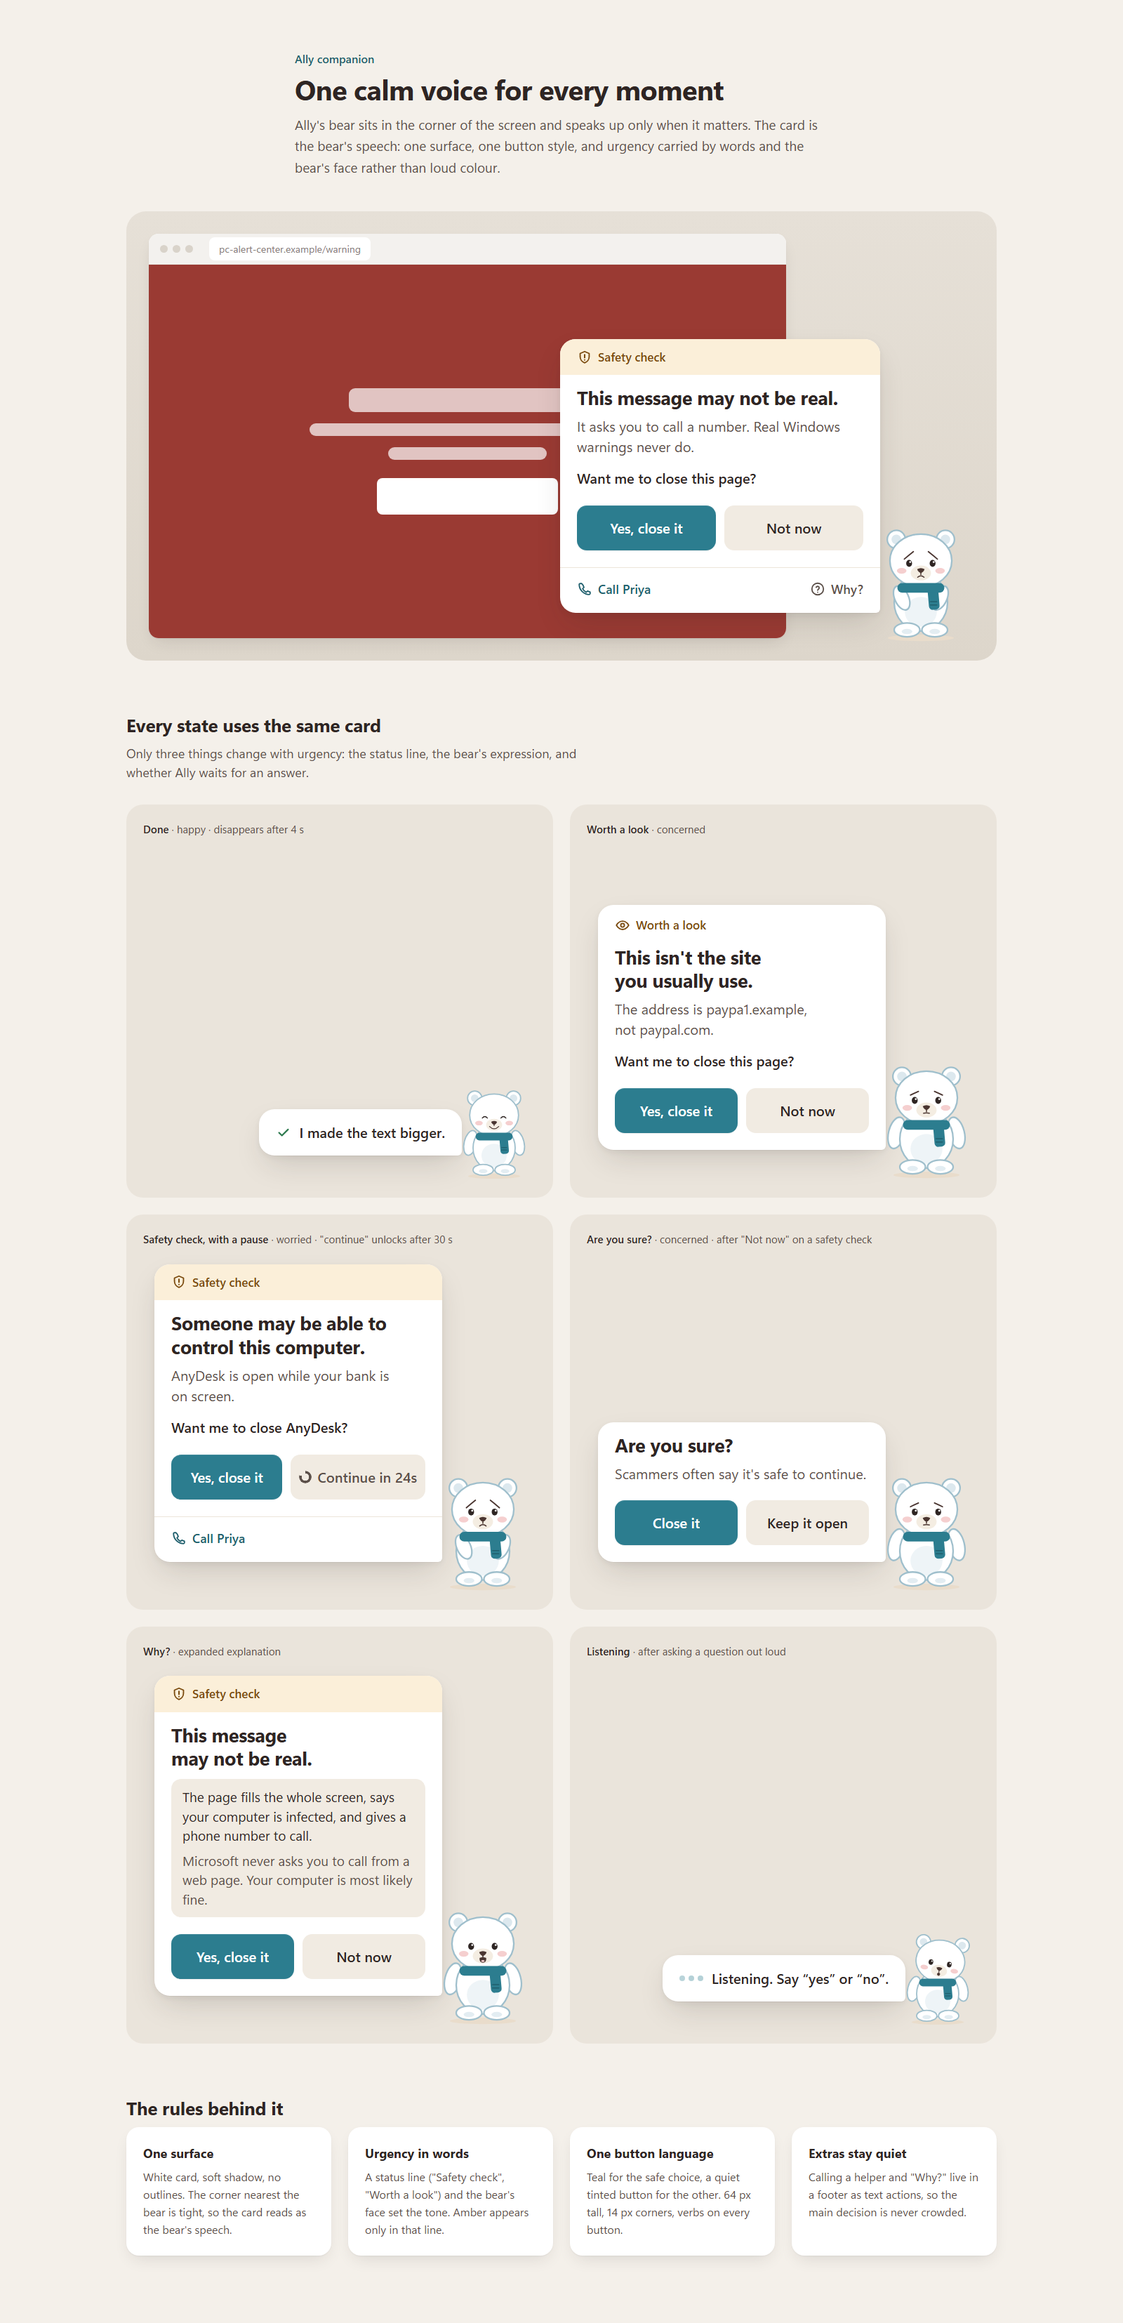
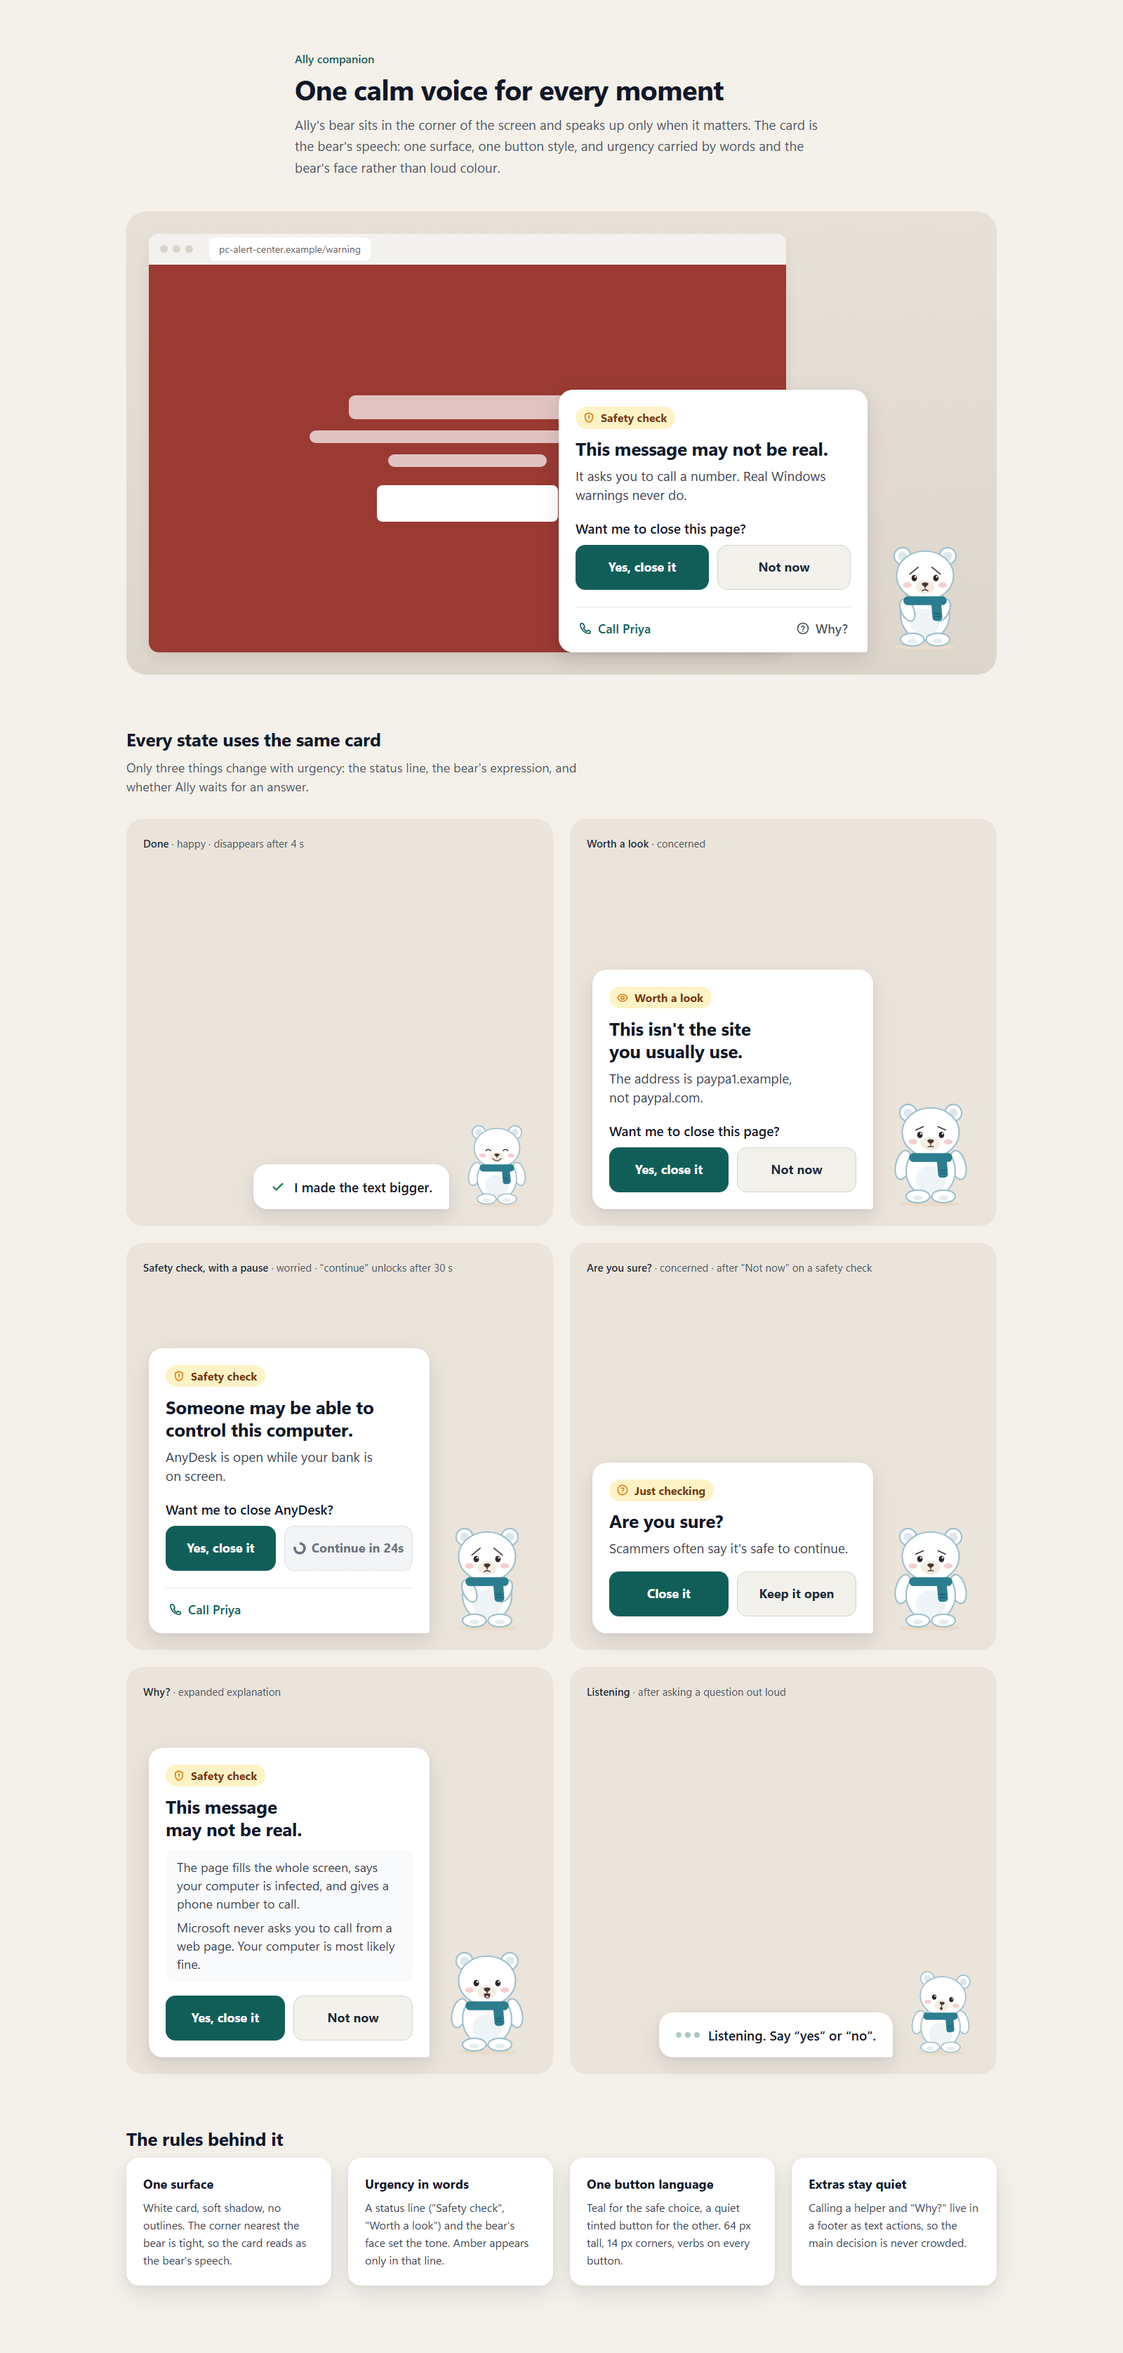
Companion mock: fixed light palette (dark mode rendered a brown card with invisible buttons), AAA contrast, status badge, strict button spec, inset footer divider, 12px card-to-bear gap
Verified: light and dark renders are pixel-identical; computed contrast: title 17.7, body 10.3,
badge 8.2, primary 7.6, secondary 13.0, links 7.6 (disabled 4.4, exempt).

diff --git a/design/mock/mock.css b/design/mock/mock.css
@@ -1,25 +1,50 @@
-/* Ally companion: the bear and its speech card. Colours come from ../tokens/tokens.css. */
+/* Ally companion: the bear and its speech card.
+   The card uses its own fixed light palette (not the theme-switching tokens), so it renders
+   identically in light and dark mode. Every text pair below meets WCAG AAA (7:1) unless noted. */
 
 :root {
+  color-scheme: light;
+
+  /* page (presentation only) */
   --page: #F4F0EA;
   --stage: #EAE4DB;
-  --card: var(--ally-surface-raised);
-  --hairline: #ECE5DA;
-  --quiet: #F1EBE2;
-  --quiet-hover: #E8E0D4;
+  --page-ink: #1F2937;
+  --page-ink-soft: #4B5563;
+
+  /* card */
+  --card: #FFFFFF;
+  --card-shadow: 0 12px 32px rgb(15 23 42 / 0.10), 0 2px 6px rgb(15 23 42 / 0.05);
+  --title: #111827;          /* 17.7:1 on white */
+  --text: #374151;           /* 10.3:1 on white */
+  --divider: #E5E7EB;
+
+  /* status badge: urgency lives only here */
+  --badge-bg: #FEF3C7;
+  --badge-ink: #78350F;      /* AAA on #FEF3C7 (spec #B45309 is 4.5:1; darkened to reach 7:1) */
+  --badge-icon: #D97706;
+  --good: #15803D;
+
+  /* buttons */
+  --primary: #115E59;        /* white on it: 7.6:1 */
+  --primary-hover: #0D4D49;
+  --primary-ink: #FFFFFF;
+  --secondary: #F3F1EC;
+  --secondary-hover: #E9E6DF;
+  --secondary-line: #D6D3CD;
+  --secondary-ink: #1F2937;  /* 13.0:1 on #F3F1EC */
+  --disabled: #F3F4F6;
+  --disabled-ink: #6B7280;   /* 4.4:1: disabled controls are exempt from WCAG contrast; still readable */
+  --disabled-line: #D1D5DB;
+  --focus: #1D4ED8;
+
+  /* footer actions */
+  --link-primary: #115E59;   /* 7.6:1 on white */
+  --link: #4B5563;           /* 7.6:1 on white */
 
   --space-1: 4px;  --space-2: 8px;  --space-3: 12px; --space-4: 16px;
   --space-5: 24px; --space-6: 32px; --space-7: 48px; --space-8: 72px;
 
-  --r-card: 22px;
-  --r-tuck: 6px;
-  --r-btn: 14px;
-
-  --shadow-card:
-    0 1px 1px rgb(46 37 35 / 0.04),
-    0 3px 8px rgb(46 37 35 / 0.05),
-    0 18px 44px -10px rgb(46 37 35 / 0.18);
-  --shadow-soft: 0 1px 2px rgb(46 37 35 / 0.05), 0 10px 24px -8px rgb(46 37 35 / 0.14);
+  --font: "Segoe UI Variable Text", "Segoe UI", system-ui, sans-serif;
 }
 
 * { box-sizing: border-box; }
@@ -27,147 +52,156 @@ body {
   margin: 0;
   padding: var(--space-8) var(--space-7) 96px;
   background: var(--page);
-  color: var(--ally-ink);
-  font: 400 18px/1.5 var(--ally-font);
+  color: var(--page-ink);
+  font: 400 18px/1.5 var(--font);
 }
 .sprite { display: none; }
-.ico { width: 22px; height: 22px; flex: none; }
+.ico { width: 20px; height: 20px; flex: none; }
 
 /* ---------- page chrome (presentation only) ---------- */
 .intro, .states, .specs, .hero { max-width: 1240px; margin-inline: auto; }
 .intro { max-width: 760px; margin-bottom: var(--space-7); }
-.intro-kicker { margin: 0 0 var(--space-2); color: var(--ally-primary-strong); font-weight: 600; font-size: 16px; }
-.intro h1 { margin: 0 0 var(--space-3); font-size: 40px; line-height: 1.15; letter-spacing: -0.02em; font-weight: 650; }
-.intro-lede { margin: 0; color: var(--ally-ink-soft); font-size: 19px; line-height: 1.6; }
-.section-h { margin: 0 0 var(--space-2); font-size: 26px; letter-spacing: -0.01em; font-weight: 650; }
-.section-sub { margin: 0 0 var(--space-6); color: var(--ally-ink-soft); max-width: 680px; }
+.intro-kicker { margin: 0 0 var(--space-2); color: var(--primary); font-weight: 600; font-size: 16px; }
+.intro h1 { margin: 0 0 var(--space-3); font-size: 40px; line-height: 1.15; letter-spacing: -0.02em; font-weight: 700; color: var(--title); }
+.intro-lede { margin: 0; color: var(--page-ink-soft); font-size: 19px; line-height: 1.6; }
+.section-h { margin: 0 0 var(--space-2); font-size: 26px; letter-spacing: -0.01em; font-weight: 700; color: var(--title); }
+.section-sub { margin: 0 0 var(--space-6); color: var(--page-ink-soft); max-width: 680px; }
 .states, .specs { margin-top: var(--space-8); }
 
 /* ---------- hero scene ---------- */
 .scene {
   position: relative;
-  min-height: 640px;
+  min-height: 660px;
   border-radius: 28px;
   background: linear-gradient(180deg, #E6E0D7, #DDD6CB);
   overflow: hidden;
 }
 .window {
   position: absolute; top: var(--space-6); left: var(--space-6); right: 300px; bottom: var(--space-6);
-  background: #fff; border-radius: 14px; box-shadow: var(--shadow-soft); overflow: hidden;
+  background: #fff; border-radius: 14px; box-shadow: 0 10px 24px -8px rgb(46 37 35 / 0.14); overflow: hidden;
 }
 .window-bar { display: flex; align-items: center; gap: 7px; height: 44px; padding: 0 var(--space-4); background: #F3F1EE; border-bottom: 1px solid #E7E3DD; }
 .window-bar span { width: 11px; height: 11px; border-radius: 50%; background: #D9D3CA; }
-.url { margin-left: var(--space-4); padding: 6px 14px; border-radius: 8px; background: #fff; color: #8A817A; font-size: 14px; }
+.url { margin-left: var(--space-4); padding: 6px 14px; border-radius: 8px; background: #fff; color: #6B6259; font-size: 14px; }
 .window-page { height: calc(100% - 44px); background: #9A3A33; display: grid; place-items: center; }
 .fake-alert { width: 62%; display: grid; gap: 16px; justify-items: center; }
 .fake-line { height: 18px; border-radius: 9px; background: rgb(255 255 255 / 0.7); }
 .fake-line.w60 { width: 60%; height: 34px; } .fake-line.w80 { width: 80%; } .fake-line.w40 { width: 40%; }
 .fake-cta { margin-top: 10px; width: 46%; height: 52px; border-radius: 8px; background: #fff; }
-.scene .ally { position: absolute; right: var(--space-6); bottom: var(--space-5); }
+.scene .ally { position: absolute; right: var(--space-6); bottom: var(--space-6); }
 
 /* ---------- states grid ---------- */
 .grid { display: grid; grid-template-columns: repeat(2, minmax(0, 1fr)); gap: var(--space-5); }
 .stage {
-  margin: 0; min-height: 560px; padding: var(--space-5); gap: var(--space-5);
+  margin: 0; min-height: 580px; padding: var(--space-5); gap: var(--space-5);
   display: flex; flex-direction: column; justify-content: space-between; align-items: flex-end;
   border-radius: 24px; background: var(--stage);
 }
-.stage figcaption { align-self: flex-start; color: var(--ally-ink-soft); font-size: 15px; }
-.stage figcaption strong { color: var(--ally-ink); font-weight: 600; }
+.stage figcaption { align-self: flex-start; color: var(--page-ink-soft); font-size: 15px; }
+.stage figcaption strong { color: var(--page-ink); font-weight: 600; }
 
 /* ---------- the component ---------- */
-.ally { display: flex; align-items: flex-end; }
-.ally-bear { width: 152px; height: auto; margin-left: -18px; position: relative; z-index: 1; flex: none; }
-.ally-compact .ally-bear { width: 120px; margin-left: -14px; }
+/* Bear and card share one bottom baseline; the card sits 12px left of the bear. */
+.ally { display: flex; align-items: flex-end; gap: 12px; }
+.ally-bear { width: 140px; height: auto; flex: none; }
+.ally-compact .ally-bear { width: 112px; }
 
 .ally-card {
-  width: 456px;
+  width: 440px;
   background: var(--card);
-  border-radius: var(--r-card) var(--r-card) var(--r-tuck) var(--r-card);
-  box-shadow: var(--shadow-card);
+  color: var(--text);
+  border: 0;
+  border-radius: 20px 20px 4px 20px;   /* tight corner nearest the bear */
+  box-shadow: var(--card-shadow);
   overflow: hidden;
-  margin-bottom: 44px; /* the tight corner meets the bear at chest height */
 }
-.ally-compact .ally-card { width: auto; margin-bottom: 36px; }
-.stage .ally:not(.ally-compact) .ally-card { width: 410px; }
+.stage .ally:not(.ally-compact) .ally-card { width: 400px; }
+.ally-compact .ally-card { width: auto; }
 
-.ally-status {
-  display: flex; align-items: center; gap: var(--space-2);
-  padding: var(--space-4) var(--space-5) 0;
-  font-size: 17px; font-weight: 600;
-  color: var(--ally-ink-soft);
+/* Rule 2: urgency in words. Amber is confined to this badge. */
+.ally-status { padding: var(--space-5) var(--space-5) 0; }
+.badge {
+  display: inline-flex; align-items: center; gap: var(--space-2);
+  padding: 6px 12px 6px 10px;
+  border-radius: 999px;
+  background: var(--badge-bg); color: var(--badge-ink);
+  font-size: 16px; font-weight: 700; line-height: 1.2;
 }
-[data-tone="risk"] .ally-status {
-  padding: 13px var(--space-5);
-  background: var(--ally-caution-wash);
-  color: var(--ally-caution-ink);
-}
-[data-tone="caution"] .ally-status { color: var(--ally-caution-ink); }
+.badge .ico { color: var(--badge-icon); width: 18px; height: 18px; }
 
-.ally-body { padding: var(--space-4) var(--space-5) var(--space-5); }
-.ally-title { margin: 0; font-size: 27px; line-height: 1.25; font-weight: 650; letter-spacing: -0.012em; text-wrap: balance; }
-.ally-text { margin: var(--space-2) 0 0; font-size: 20px; line-height: 1.45; color: var(--ally-ink-soft); text-wrap: pretty; }
-.ally-ask { margin: var(--space-4) 0 0; font-size: 20px; font-weight: 600; }
-.ally-why { margin-top: var(--space-3); padding: var(--space-3) var(--space-4); border-radius: 14px; background: var(--quiet); }
-.ally-why p { margin: 0; font-size: 19px; line-height: 1.45; color: var(--ally-ink); }
-.ally-why p + p { margin-top: var(--space-2); color: var(--ally-ink-soft); }
+.ally-body { padding: var(--space-3) var(--space-5) var(--space-5); }
+.ally-title { margin: 0; color: var(--title); font-size: 26px; line-height: 1.25; font-weight: 700; letter-spacing: -0.01em; text-wrap: balance; }
+.ally-text { margin: var(--space-2) 0 0; color: var(--text); font-size: 19px; line-height: 1.45; text-wrap: pretty; }
+.ally-ask { margin: 20px 0 10px; color: var(--title); font-size: 19px; line-height: 1.45; font-weight: 600; }
+.ally-why { margin-top: var(--space-3); padding: var(--space-3) var(--space-4); border-radius: 12px; background: #F9FAFB; }
+.ally-why p { margin: 0; color: var(--text); font-size: 18px; line-height: 1.45; }
+.ally-why p + p { margin-top: var(--space-2); }
 
-.ally-actions { display: grid; grid-template-columns: 1fr 1fr; gap: var(--space-3); margin-top: var(--space-5); }
-
+/* Rule 3: one button language. */
+.ally-actions { display: flex; gap: 12px; margin-top: 20px; }
+.ally-ask + .ally-actions { margin-top: 0; }
 .btn {
-  min-height: var(--ally-touch-min);
-  padding: 0 var(--space-4);
+  flex: 1;
+  height: 64px;
+  padding: 0 var(--space-3);
   display: inline-flex; align-items: center; justify-content: center; gap: var(--space-2);
-  border: 0; border-radius: var(--r-btn);
-  font: 600 20px/1.2 var(--ally-font);
+  border: 1px solid transparent; border-radius: 14px;
+  font: 700 18px/1.2 var(--font);
+  white-space: nowrap;
   cursor: pointer;
   transition: background-color 120ms ease, transform 120ms ease;
 }
-.btn:active { transform: translateY(1px); }
-.btn-primary { background: var(--ally-primary); color: var(--ally-primary-ink); box-shadow: 0 1px 0 rgb(0 0 0 / 0.06), inset 0 1px 0 rgb(255 255 255 / 0.12); }
-.btn-primary:hover { background: var(--ally-primary-strong); }
-.btn-quiet { background: var(--quiet); color: var(--ally-ink); }
-.btn-quiet:hover { background: var(--quiet-hover); }
-.btn[disabled] { cursor: default; color: var(--ally-ink-soft); white-space: nowrap; padding: 0 var(--space-3); }
-.btn:focus-visible, .link:focus-visible { outline: 3px solid var(--ally-focus); outline-offset: 3px; }
+.btn:active:not([disabled]) { transform: translateY(1px); }
+.btn-primary { background: var(--primary); color: var(--primary-ink); }
+.btn-primary:hover { background: var(--primary-hover); }
+.btn-quiet { background: var(--secondary); color: var(--secondary-ink); border-color: var(--secondary-line); }
+.btn-quiet:hover { background: var(--secondary-hover); }
+.btn[disabled] {
+  background: var(--disabled); color: var(--disabled-ink);
+  border: 1px dashed var(--disabled-line);
+  cursor: not-allowed;
+}
+.btn:focus-visible, .link:focus-visible { outline: 3px solid var(--focus); outline-offset: 3px; }
 
 .countdown {
   width: 18px; height: 18px; border-radius: 50%;
-  background: conic-gradient(var(--ally-ink-soft) 0 80%, transparent 80% 100%);
+  background: conic-gradient(var(--disabled-ink) 0 80%, transparent 80% 100%);
   -webkit-mask: radial-gradient(circle, transparent 5px, #000 5.5px);
           mask: radial-gradient(circle, transparent 5px, #000 5.5px);
 }
 
+/* Rule 4: extras stay quiet. Inset divider aligned with the card padding. */
 .ally-more {
   display: flex; justify-content: space-between; align-items: center;
-  padding: var(--space-2) var(--space-4) var(--space-3);
-  border-top: 1px solid var(--hairline);
+  margin: 0 var(--space-5);
+  padding: var(--space-2) 0 var(--space-3);
+  border-top: 1px solid var(--divider);
 }
 .link {
   display: inline-flex; align-items: center; gap: var(--space-2);
-  min-height: 44px; padding: 0 var(--space-2);
+  min-height: 44px; padding: 0 var(--space-1);
   border: 0; background: none; border-radius: 10px;
-  font: 600 18px/1 var(--ally-font); color: var(--ally-ink-soft); cursor: pointer;
+  font: 600 18px/1 var(--font); color: var(--link); cursor: pointer;
 }
-.link-primary { color: var(--ally-primary-strong); }
+.link-primary { color: var(--link-primary); }
 .link:hover { text-decoration: underline; text-underline-offset: 4px; }
 
 .ally-toast {
   display: flex; align-items: center; gap: var(--space-3);
   padding: 18px var(--space-5);
-  font-size: 20px; font-weight: 600; white-space: nowrap;
+  color: var(--title); font-size: 19px; font-weight: 600; white-space: nowrap;
 }
-[data-tone="good"] .ally-toast .ico { color: var(--ally-good); }
+[data-tone="good"] .ally-toast .ico { color: var(--good); width: 22px; height: 22px; }
 .dots { display: inline-flex; gap: 5px; }
-.dots i { width: 8px; height: 8px; border-radius: 50%; background: var(--ally-primary); opacity: 0.35; animation: pulse 1.2s infinite ease-in-out; }
+.dots i { width: 8px; height: 8px; border-radius: 50%; background: var(--primary); opacity: 0.35; animation: pulse 1.2s infinite ease-in-out; }
 .dots i:nth-child(2) { animation-delay: 0.15s; } .dots i:nth-child(3) { animation-delay: 0.3s; }
 @keyframes pulse { 0%, 100% { opacity: 0.3; } 40% { opacity: 1; } }
 
 /* ---------- rules ---------- */
 .rules { display: grid; grid-template-columns: repeat(4, minmax(0, 1fr)); gap: var(--space-5); margin: 0; }
-.rules div { padding: var(--space-5); border-radius: 18px; background: #fff; box-shadow: var(--shadow-soft); }
-.rules dt { font-weight: 650; margin-bottom: var(--space-2); }
-.rules dd { margin: 0; color: var(--ally-ink-soft); font-size: 16px; line-height: 1.55; }
+.rules div { padding: var(--space-5); border-radius: 18px; background: #fff; box-shadow: var(--card-shadow); }
+.rules dt { font-weight: 700; color: var(--title); margin-bottom: var(--space-2); }
+.rules dd { margin: 0; color: var(--text); font-size: 16px; line-height: 1.55; }
 
 @media (prefers-reduced-motion: reduce) { .dots i { animation: none; opacity: 0.8; } .btn { transition: none; } }
 @media (max-width: 1100px) { .grid { grid-template-columns: 1fr; } .rules { grid-template-columns: 1fr 1fr; } }

diff --git a/design/mock/index.html b/design/mock/index.html
@@ -40,7 +40,7 @@
 
     <div class="ally" data-tone="risk">
       <article class="ally-card" role="alertdialog" aria-labelledby="hero-t" aria-describedby="hero-d">
-        <header class="ally-status"><svg class="ico"><use href="#i-shield"/></svg>Safety check</header>
+        <header class="ally-status"><span class="badge"><svg class="ico"><use href="#i-shield"/></svg>Safety check</span></header>
         <div class="ally-body">
           <h2 class="ally-title" id="hero-t">This message may not be real.</h2>
           <p class="ally-text" id="hero-d">It asks you to call a number. Real Windows warnings never do.</p>
@@ -80,7 +80,7 @@
       <figcaption><strong>Worth a look</strong> · concerned</figcaption>
       <div class="ally" data-tone="caution">
         <article class="ally-card" role="alertdialog" aria-labelledby="c-t">
-          <header class="ally-status"><svg class="ico"><use href="#i-eye"/></svg>Worth a look</header>
+          <header class="ally-status"><span class="badge"><svg class="ico"><use href="#i-eye"/></svg>Worth a look</span></header>
           <div class="ally-body">
             <h3 class="ally-title" id="c-t">This isn't the site you usually use.</h3>
             <p class="ally-text">The address is paypa1.example, not paypal.com.</p>
@@ -99,7 +99,7 @@
       <figcaption><strong>Safety check, with a pause</strong> · worried · "continue" unlocks after 30 s</figcaption>
       <div class="ally" data-tone="risk">
         <article class="ally-card" role="alertdialog" aria-labelledby="p-t">
-          <header class="ally-status"><svg class="ico"><use href="#i-shield"/></svg>Safety check</header>
+          <header class="ally-status"><span class="badge"><svg class="ico"><use href="#i-shield"/></svg>Safety check</span></header>
           <div class="ally-body">
             <h3 class="ally-title" id="p-t">Someone may be able to control this computer.</h3>
             <p class="ally-text">AnyDesk is open while your bank is on screen.</p>
@@ -121,6 +121,7 @@
       <figcaption><strong>Are you sure?</strong> · concerned · after "Not now" on a safety check</figcaption>
       <div class="ally" data-tone="caution">
         <article class="ally-card" role="alertdialog" aria-labelledby="f-t">
+          <header class="ally-status"><span class="badge"><svg class="ico"><use href="#i-question"/></svg>Just checking</span></header>
           <div class="ally-body">
             <h3 class="ally-title" id="f-t">Are you sure?</h3>
             <p class="ally-text">Scammers often say it's safe to continue.</p>
@@ -138,7 +139,7 @@
       <figcaption><strong>Why?</strong> · expanded explanation</figcaption>
       <div class="ally" data-tone="risk">
         <article class="ally-card" role="alertdialog" aria-labelledby="w-t">
-          <header class="ally-status"><svg class="ico"><use href="#i-shield"/></svg>Safety check</header>
+          <header class="ally-status"><span class="badge"><svg class="ico"><use href="#i-shield"/></svg>Safety check</span></header>
           <div class="ally-body">
             <h3 class="ally-title" id="w-t">This message may not be real.</h3>
             <div class="ally-why">
